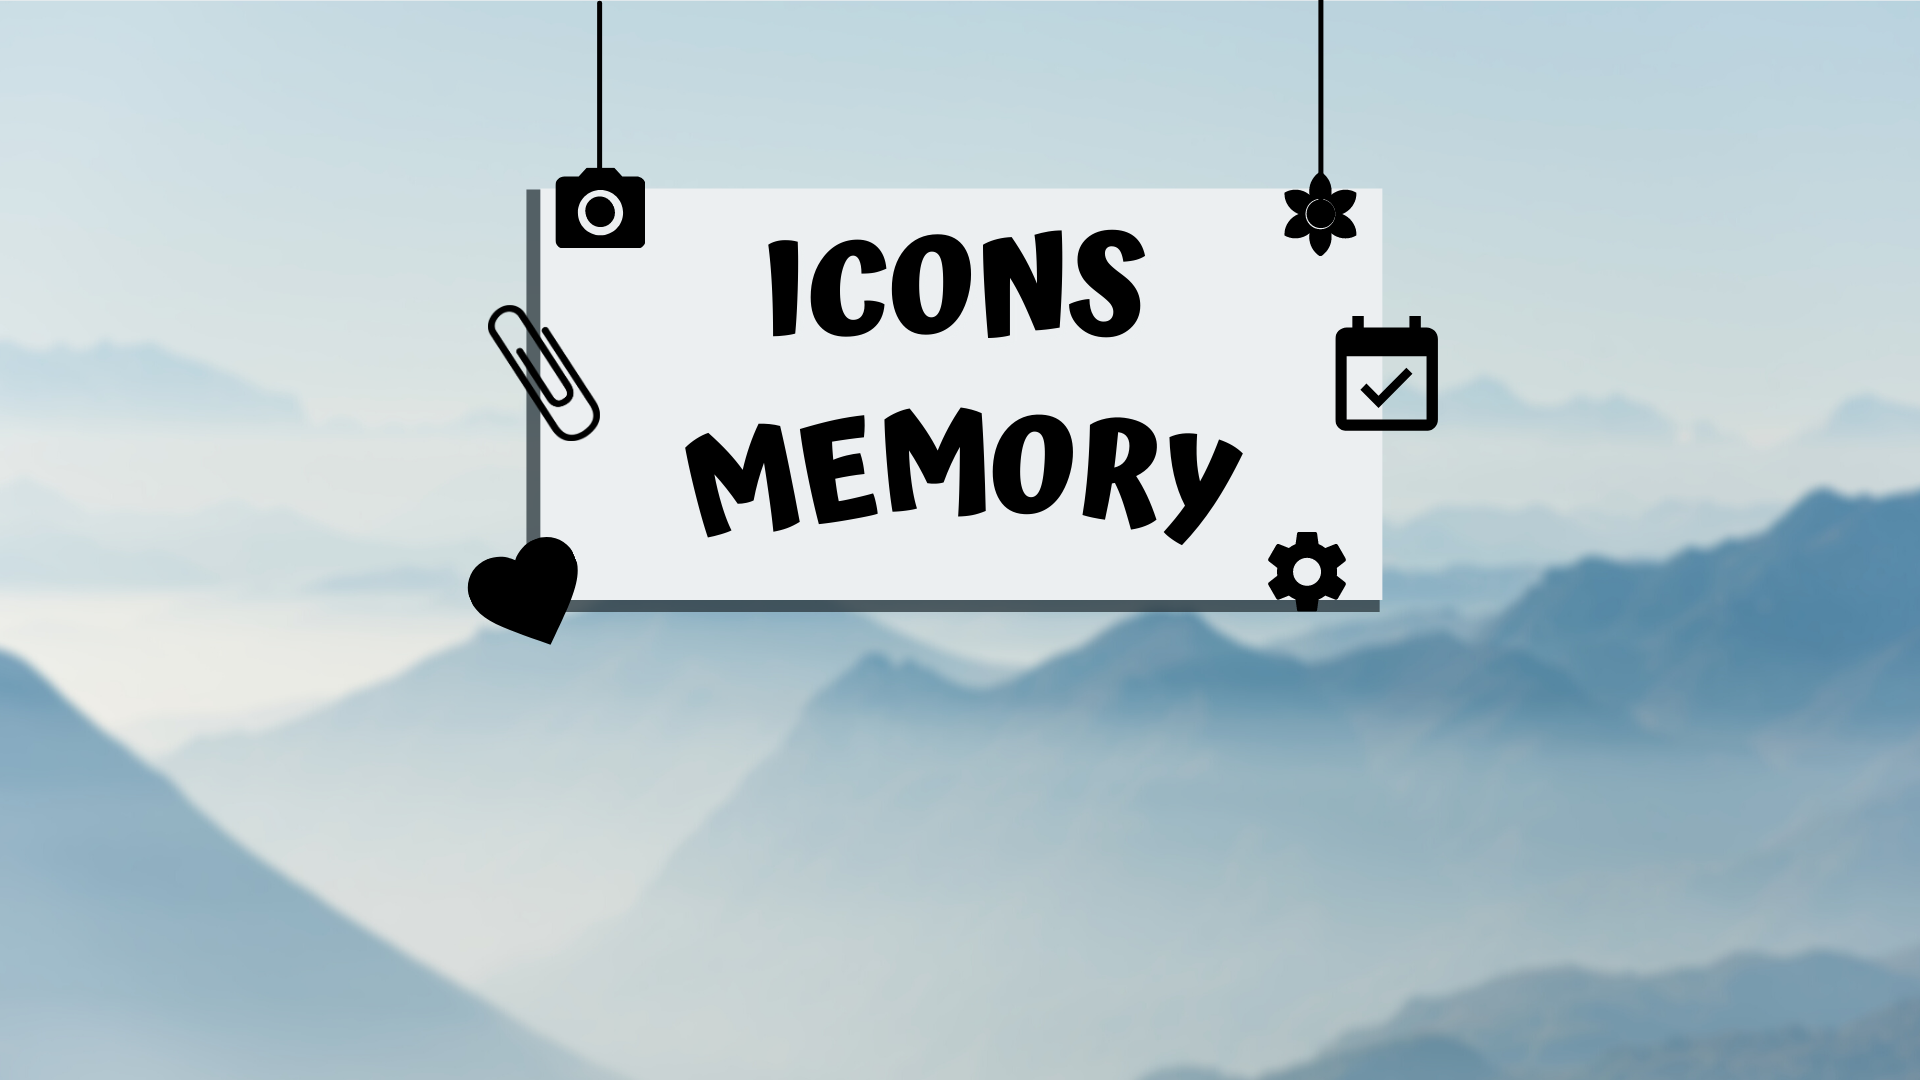
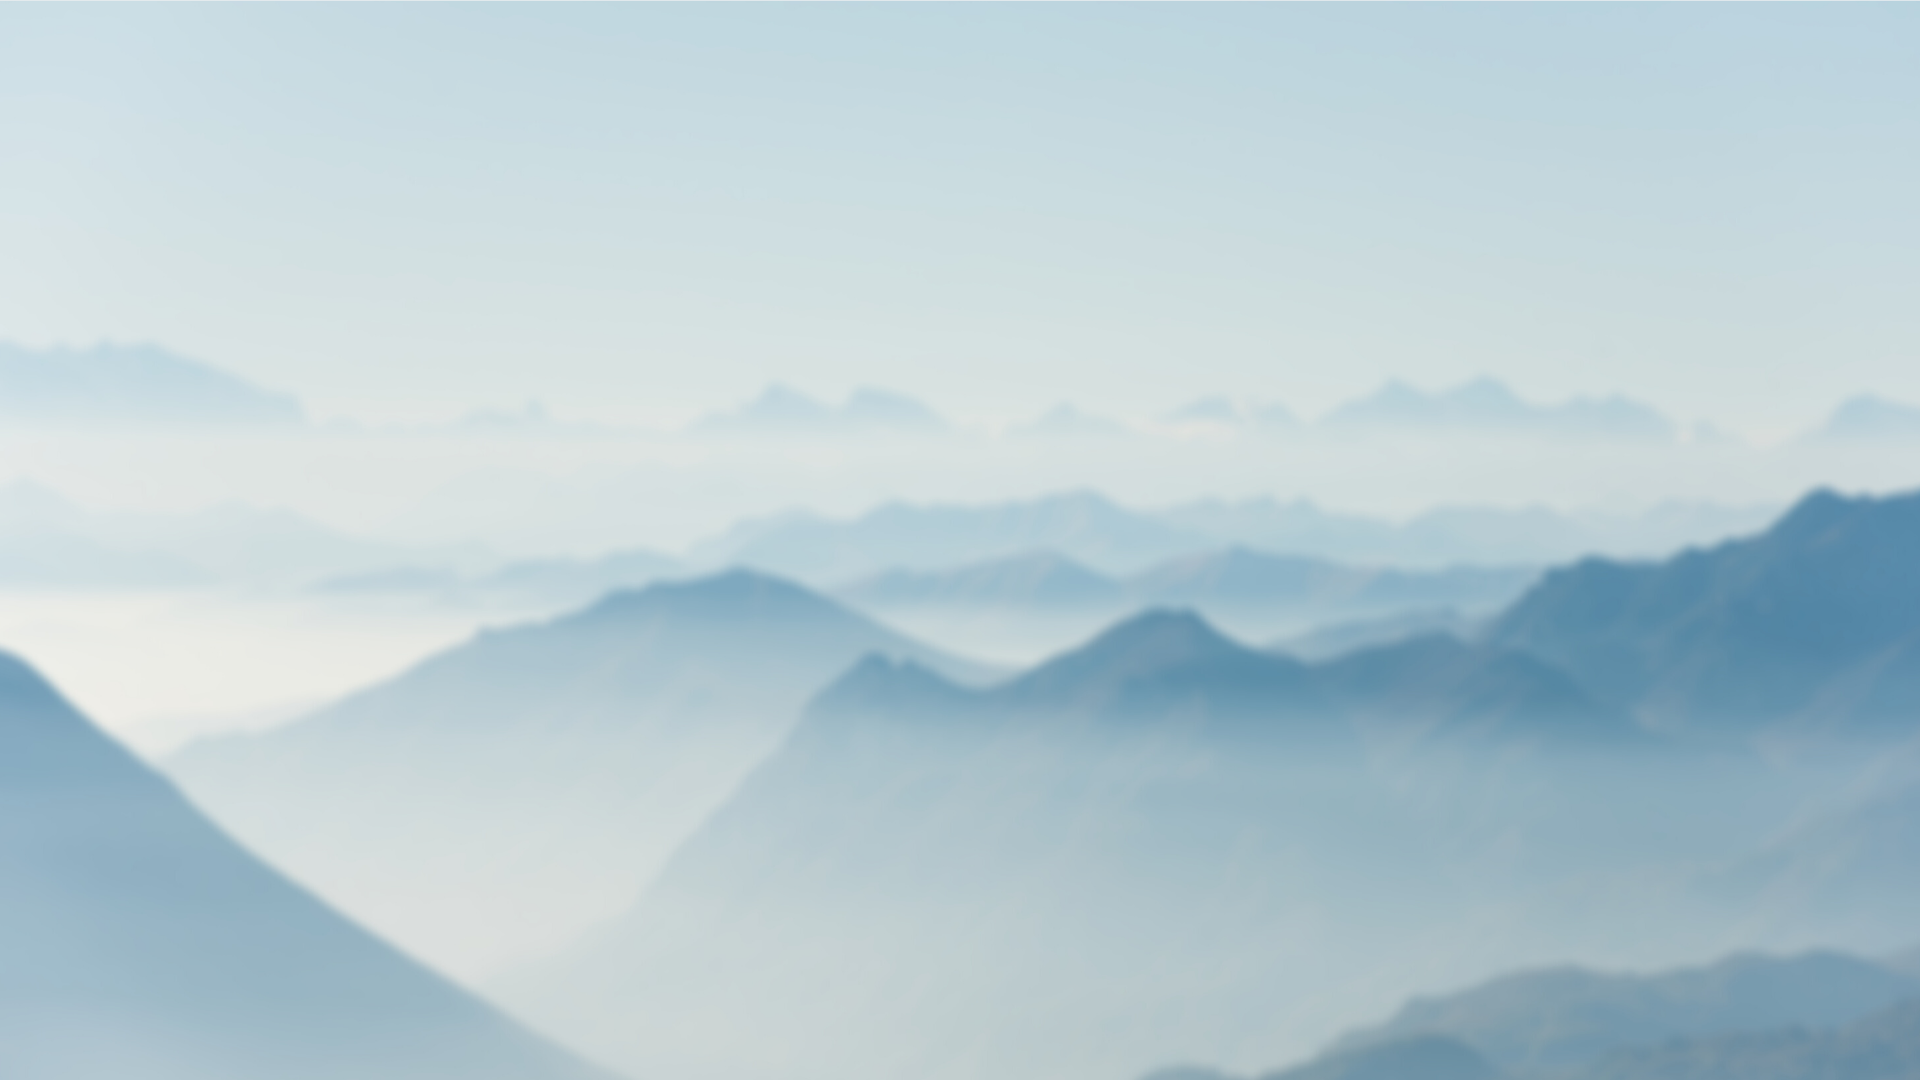
Adding Router to navigate and some styler
-Cards size → changed

Changed region(s): [[0.2188, 0.1528, 0.75, 0.6111]]

diff --git a/src/components/game/navBar.js b/src/components/game/navBar.js
@@ -1,20 +1,30 @@
 import React from "react";
 import 'bootstrap-icons/font/bootstrap-icons.css';
+
 class navBar extends React.Component {
+
+    constructor(props) {
+        super(props);
+        this.handleClick = this.handleClick.bind(this);
+    }
+
+   handleClick() {
+        this.setState(this.props.initialState);
+    }
+
     render() {
         return (
             <nav className="navbar navbar-expand border-bottom text-primary">
-                <a className="navbar-brand" href="#">Navbar</a>
+                <a className="navbar-brand" href="/">HOME</a>
                 <div className="collapse navbar-collapse" id="navbarItems">
                     <ul className="navbar-nav ml-auto">
                         <li className="nav-item my-auto mr-5">
-                            Conteo
+                            Movimientos: {this.props.counter}
                         </li>
                         <li className="nav-item">
-                            <a className="nav-link" href="#">
-                                <span className={'bi bi-arrow-repeat mr-1'}></span>
-                                Reiniciar
-                            </a>
+                                <span onClick={this.props.reset} className={'bi bi-arrow-repeat cursor-pointer'}>
+                                    Reiniciar
+                                </span>
                         </li>
                     </ul>
                 </div>

diff --git a/src/style/index.scss b/src/style/index.scss
@@ -1,72 +1,37 @@
-@import "./variables.scss";
+@import "./variables";
 @import "../../node_modules/bootstrap/scss/bootstrap";
+@import "./cards";
+@import "./home";
+/* Animate.css*/
+@import "~animate.css/animate.css";
+@import "~animate.css/source/bouncing_entrances/bounceInDown.css";
+
 body{
   background-color: $secondary;
 }
+
 
 .border-bottom{
   border-bottom-color: $primary !important;
 }
 
 .size{
-  width: 220px;
-  height: 300px;
-}
-
-.card-container{
-  position: relative;
-  transition: .8s;
-  width: 220px;
-  height: 300px;
-  margin: 5px;
-  &.flipped {
-    .front {
-      transform: rotateX(-180deg)
-    }
-
-    .back {
-      transform: rotateX(0deg);
-    }
-  }
-}
-
-.card{
-  width: 220px;
-  height: 300px;
-  align-items: center;
-  padding: 5px;
-}
-
-.front{
-  z-index: 2;
-  position: absolute;
-  backface-visibility: hidden;
-  transform: rotateX(0deg);
-  transition: .8s;
-    .icon{
-      font-size: 50px;
-      transform: translate(0%, -230%);
-    }
-}
-
-.back{
-  position: absolute;
-  backface-visibility: hidden;
-  transform: rotateX(180deg);
-  transition: .8s;
-  .icon{
-    color: #37474F;
-    position: absolute;
-    top: 26%;
-    font-size: 150px;
-  }
+  width: 170px;
+  height: 200px;
 }
 
 .row{
-  margin-left: 52px;
+  margin-left: 25px;
 }
 
+.cursor-pointer{
+  cursor: pointer;
+}
 
-
+.bi{
+  &:before{
+    margin-right: 5px;
+  }
+}
 
 

diff --git a/src/components/gamePage.js b/src/components/gamePage.js
@@ -13,7 +13,9 @@ const initialState = ()=>{
     }
 };
 
-export default class Page extends React.Component{
+let guessedCards = 0;
+
+export default class GamePage extends React.Component{
     constructor(props) {
         super(props);
         this.state = initialState();
@@ -25,7 +27,7 @@ export default class Page extends React.Component{
             <div>
                 <Navbar
                     counter = {this.state.counter}
-                    initialState = {this.initialState}
+                    reset = {() => this.resetGame()}
                 />
                 <Game
                     backCard = {this.state.backCard}
@@ -60,6 +62,7 @@ export default class Page extends React.Component{
         setTimeout(()=>{
             const [firstCard, secondCard] = pairSelected;
             if(firstCard.iconName === secondCard.iconName) {
+                guessedCards += 1;
                 this.state.backCard.map((card) => {
                     const index = this.state.backCard.indexOf(card);
                     if(card.iconName != firstCard.iconName){
@@ -83,8 +86,14 @@ export default class Page extends React.Component{
                 })}
         ,1500);
 
-
-
     }
+
+    resetGame(){
+        this.setState(
+            initialState()
+        )
+    };
+
+
 }
 

diff --git a/src/utils/backCards.js b/src/utils/backCards.js
@@ -1,18 +1,23 @@
 import shuffle from 'lodash.shuffle';
-const CARDS_NUMBER = 20;
+const CARDS_NUMBER = 24;
 import Icons from './icons.json'
 export default () =>{
     const icons = Icons;
     let cards = [];
-    while(cards.length <CARDS_NUMBER){
+    let test = [];
+    while(cards.length < CARDS_NUMBER){
         const index = Math.floor(Math.random() * icons.length);
-        const card = {
-            iconClass: icons[index].classIcon,
-            iconName: icons[index].name,
-            guess: false
-        };
-        cards.push(card);
-        cards.push({...card});
+        if(test.indexOf(index) == -1){
+            const card = {
+                iconClass: icons[index].classIcon,
+                iconName: icons[index].name,
+                isComparing: false
+            };
+            cards.push(card);
+            cards.push({...card});
+            test.push(index);
+        }
+
     }
 
     return shuffle(cards);

diff --git a/src/components/pages.js b/src/components/pages.js
@@ -1,0 +1,27 @@
+import React from 'react';
+import {BrowserRouter as Router, Route, Switch} from "react-router-dom";
+import GamePage from "./gamePage";
+import HomePage from "./homePage";
+
+export default class pages  extends React.Component{
+    render(){
+        return (
+            <Router>
+                <Switch>
+                    <Route path={'/'} exact  render={
+                        () => {
+                            return ( <HomePage/>);
+                        }
+                    }/>
+                    <Route path={"/gamePage"} render={
+                        () => {
+                            return ( <GamePage/>);
+                        }
+                    }/>
+                </Switch>
+
+            </Router>
+
+        );
+    }
+}

diff --git a/src/components/homePage.js b/src/components/homePage.js
@@ -1,0 +1,20 @@
+import React from 'react';
+import title from '../media/title.png'
+import {Link} from'react-router-dom'
+
+
+
+export default class homePage extends React.Component {
+
+    render() {
+        return (
+            <div className={'home-background d-flex justify-content-center vw-100 vh-100 flex-wrap'}>
+                <div className={'vw-100 d-flex justify-content-center animate__animated animate__bounceInDown'}>
+                    <img src={title} className={'image-transition'}/>
+                </div>
+                <Link to={'/gamePage'} className={'btn home-button'}>Comenzar</Link>
+            </div>
+        );
+
+    }
+}

diff --git a/src/style/home.scss b/src/style/home.scss
@@ -1,0 +1,32 @@
+.home-background{
+  background-image: $home-image;
+}
+
+.home-button{
+  border-radius: 500px;
+  line-height: 1;
+  padding: 17px;
+  position: absolute;
+  top: 70%;
+  background-color: $primary;
+  color: $secondary;
+  width: 175px;
+  font-size: 2rem;
+  transition-duration: 33ms;
+  transition-property: background-color, transform;
+  &:hover{
+    transform: scale(1.04);
+    background-color: #263238D4;
+    color: #FFF;
+  }
+}
+
+.image-transition{
+  height: 36%;
+  transition-duration: 1.5s;
+  transition-property: transform;
+  &:hover{
+    transform: scale(1.04);
+  }
+}
+

diff --git a/src/style/cards.scss b/src/style/cards.scss
@@ -1,0 +1,34 @@
+.card-container{
+  position: relative;
+  transition: .8s;
+  width: 170px;
+  height: 200px;
+  margin: 5px;
+  &:hover{
+    cursor: pointer;
+    transform: scale(0.95);
+  }
+}
+
+.card{
+  width: 170px;
+  height: 200px;
+  align-items: center;
+  padding: 5px;
+}
+
+.front{
+  .icon{
+    font-size: 50px;
+    transform: translate(0%, -230%);
+  }
+}
+
+.back{
+  .icon{
+    color: #37474F;
+    position: absolute;
+    top: 26%;
+    font-size: 110px;
+  }
+}

diff --git a/src/components/cards/back.js b/src/components/cards/back.js
@@ -5,7 +5,7 @@ class Back extends React.Component {
         return (
                <div className={'back'}>
                    <div className="card">
-                       <h1 className={'text-primary'}>{this.props.iconName}</h1>
+                       <h3 className={'text-primary'}>{this.props.iconName}</h3>
                        <span className={`bi ${this.props.iconClass} icon`}></span>
                    </div>
                </div>

diff --git a/src/index.js b/src/index.js
@@ -1,8 +1,8 @@
 import React from 'react';
 import ReactDOM from 'react-dom';
 import './style/index.scss'
-
-import Page from './components/page';
+import Pages from './components/pages';
+import GamePage from "./components/gamePage";
 
 const container = document.getElementById("root");
-ReactDOM.render(<Page/>,container);
+ReactDOM.render(<Pages/>,container);

diff --git a/src/components/cards/card.js b/src/components/cards/card.js
@@ -5,11 +5,10 @@ import Front from './front'
 import Back from './back'
 
 let count = 0
-
+// this.props.delete? 'delete':''
 class Card extends React.Component {
     constructor(props) {
         super(props);
-        this.state = {fill:false}
         this.handleClick = this.handleClick.bind(this);
     }
 

diff --git a/src/components/cards/front.js b/src/components/cards/front.js
@@ -1,5 +1,5 @@
 import React from "react";
-import background from '../media/bck.png';
+import background from '../../media/bck.png';
 class Front extends React.Component {
     render() {
         return (
